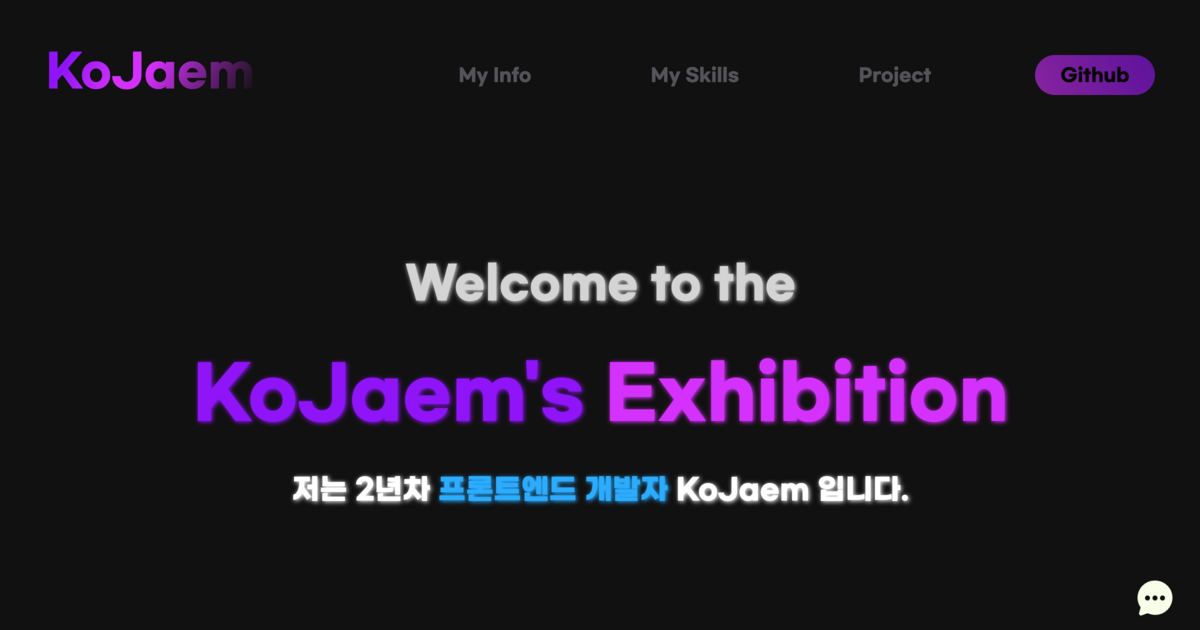
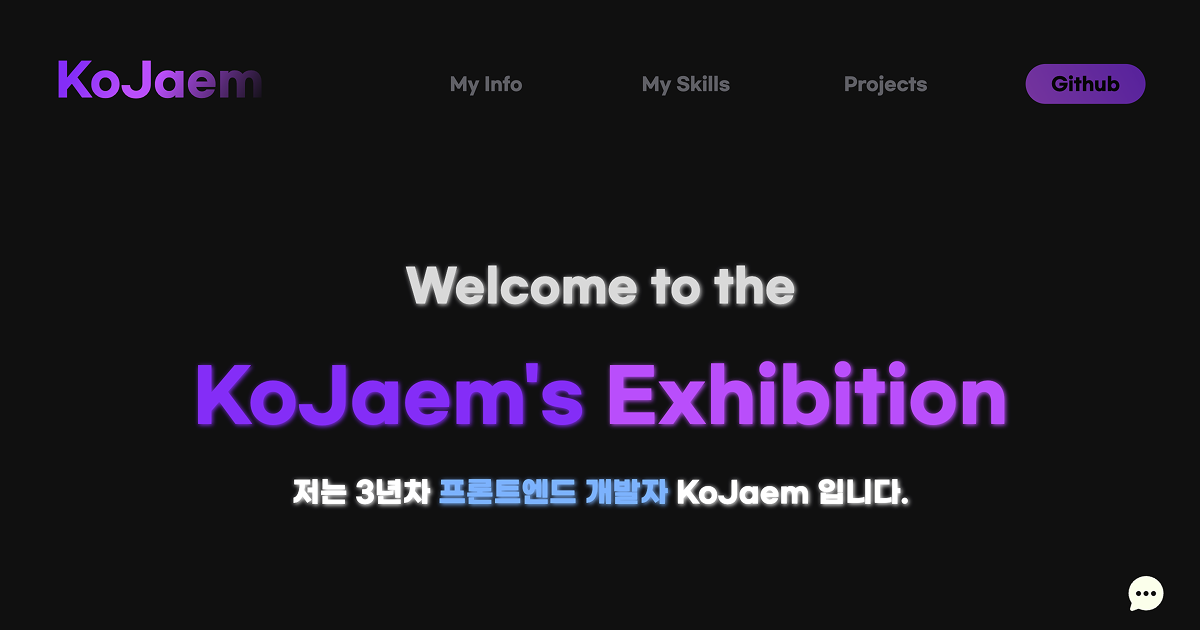
chore: 연차정보 수정

diff --git a/src/containers/indexPage/components/Intro.tsx b/src/containers/indexPage/components/Intro.tsx
@@ -194,7 +194,7 @@ export const Intro = () => {
             textAlign="center"
           >
             <SpectrumText
-              text="저는 2년차 "
+              text="저는 3년차 "
               delay={0.1}
               duration={1}
               shadow={whiteBoldShadow}

diff --git a/src/dummy/mySkills.ts b/src/dummy/mySkills.ts
@@ -5,9 +5,9 @@ export const mySkills = {
       'TypeScript.png',
       'React.png',
       'NextJs.png',
+      'Electron.png',
       'Zustand.png',
       'Recoil.png',
-      // 'Redux.png',
       'tailwindcss.png',
       'framer-motion.png',
       'styled-components.png',
